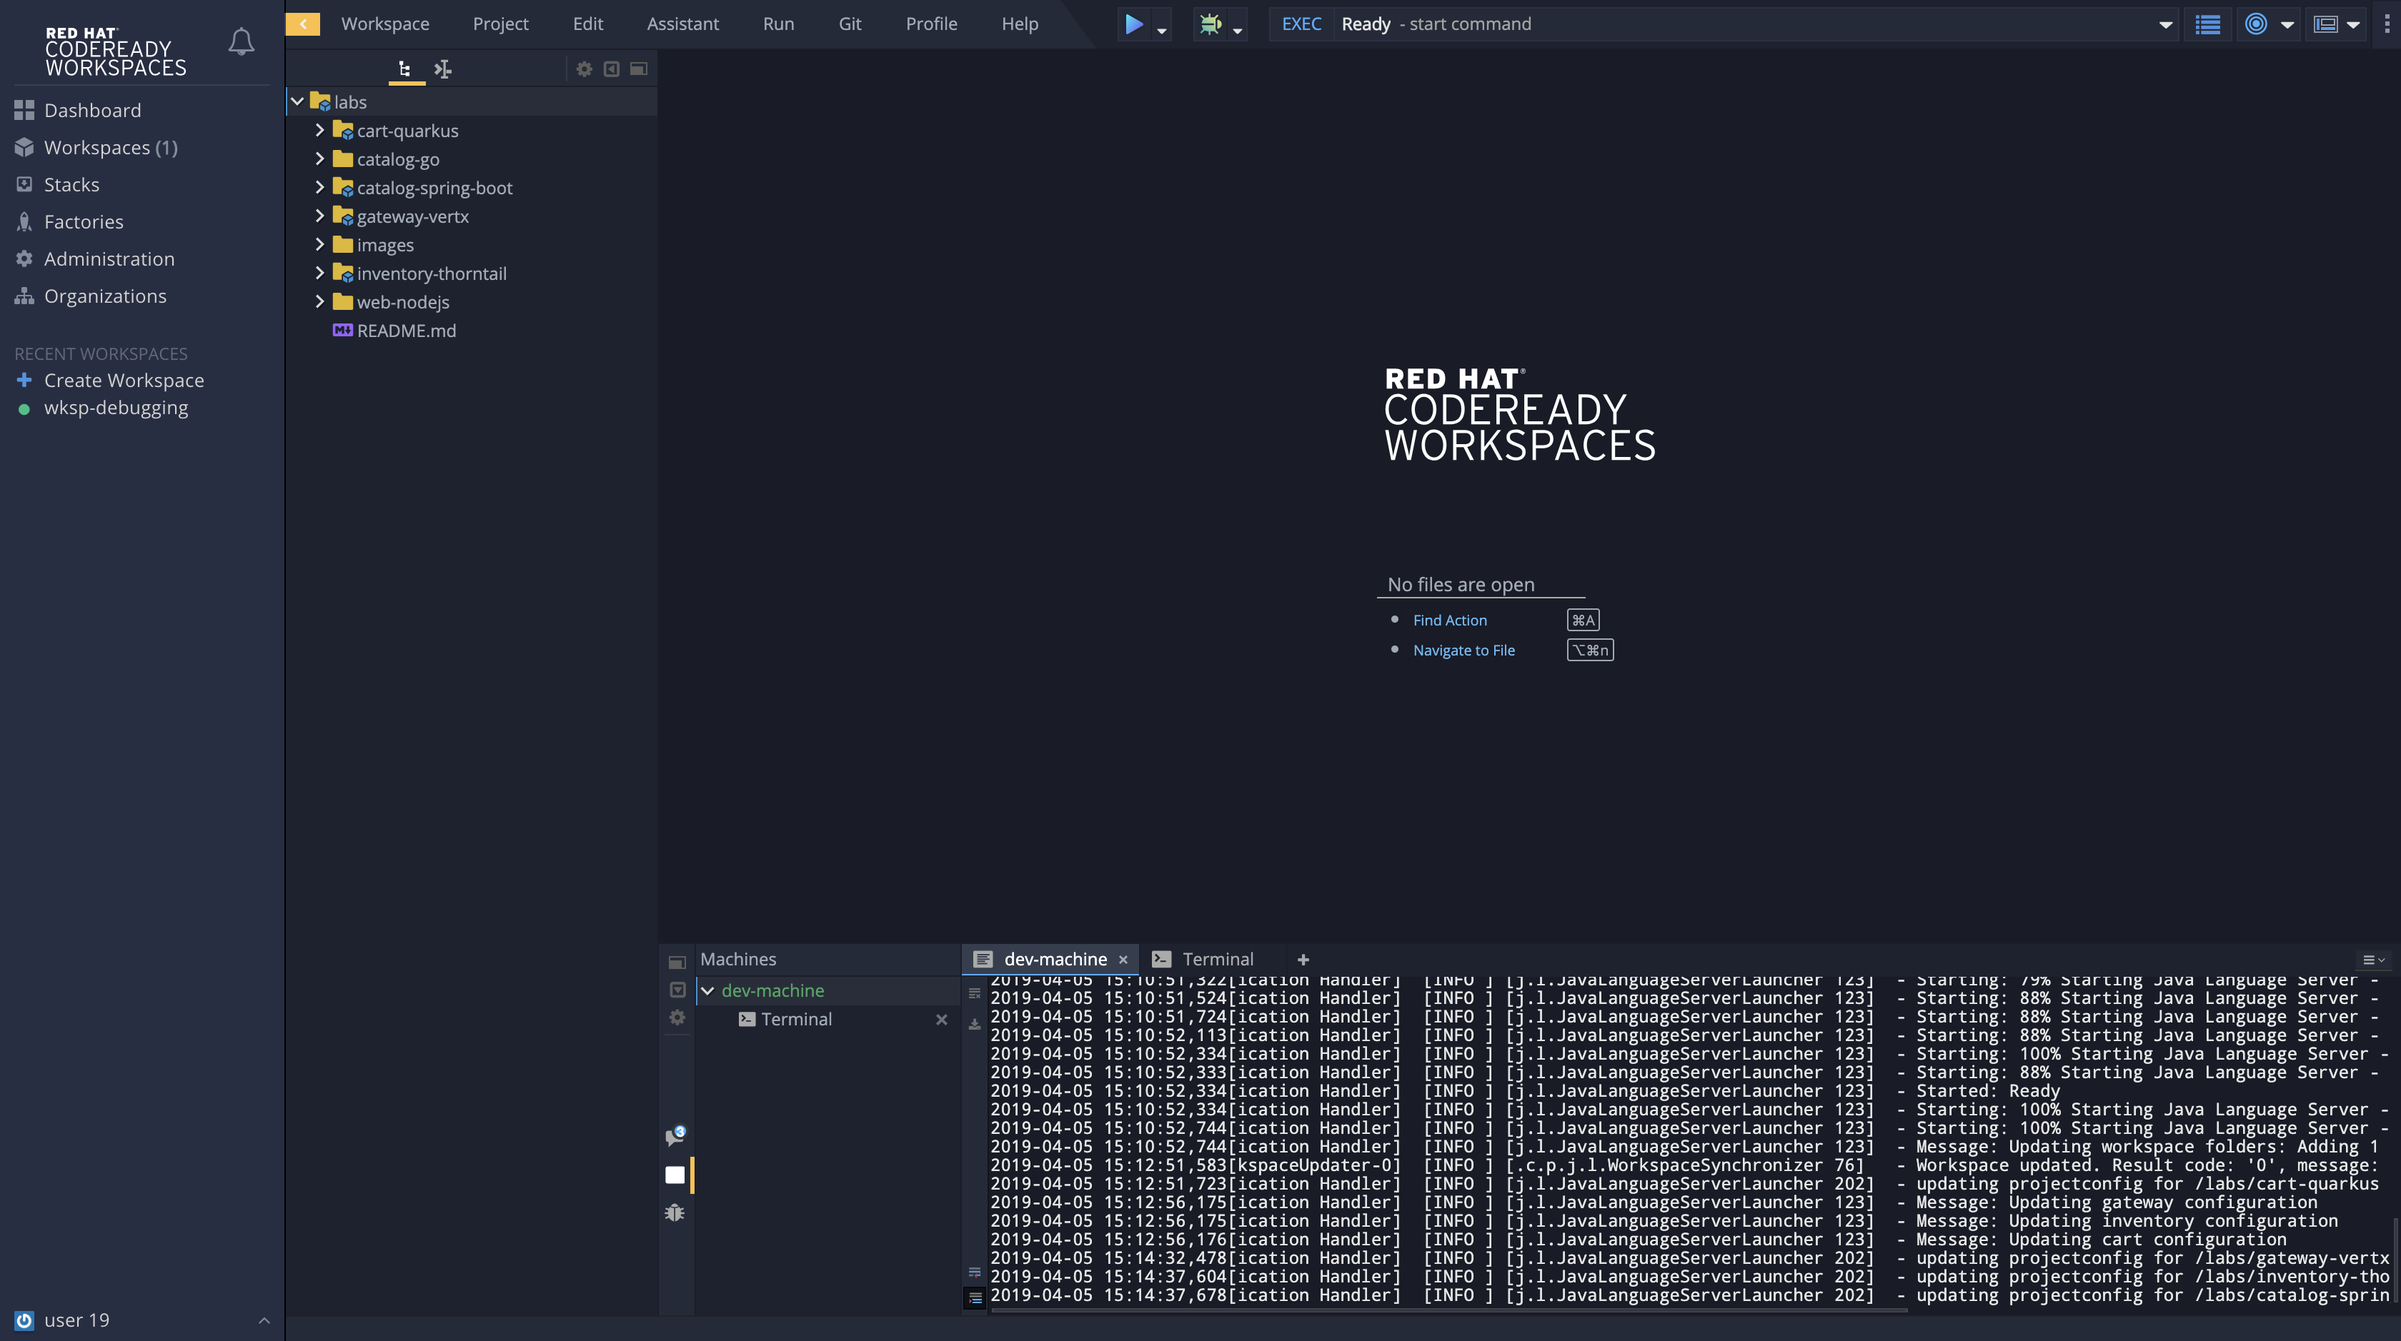
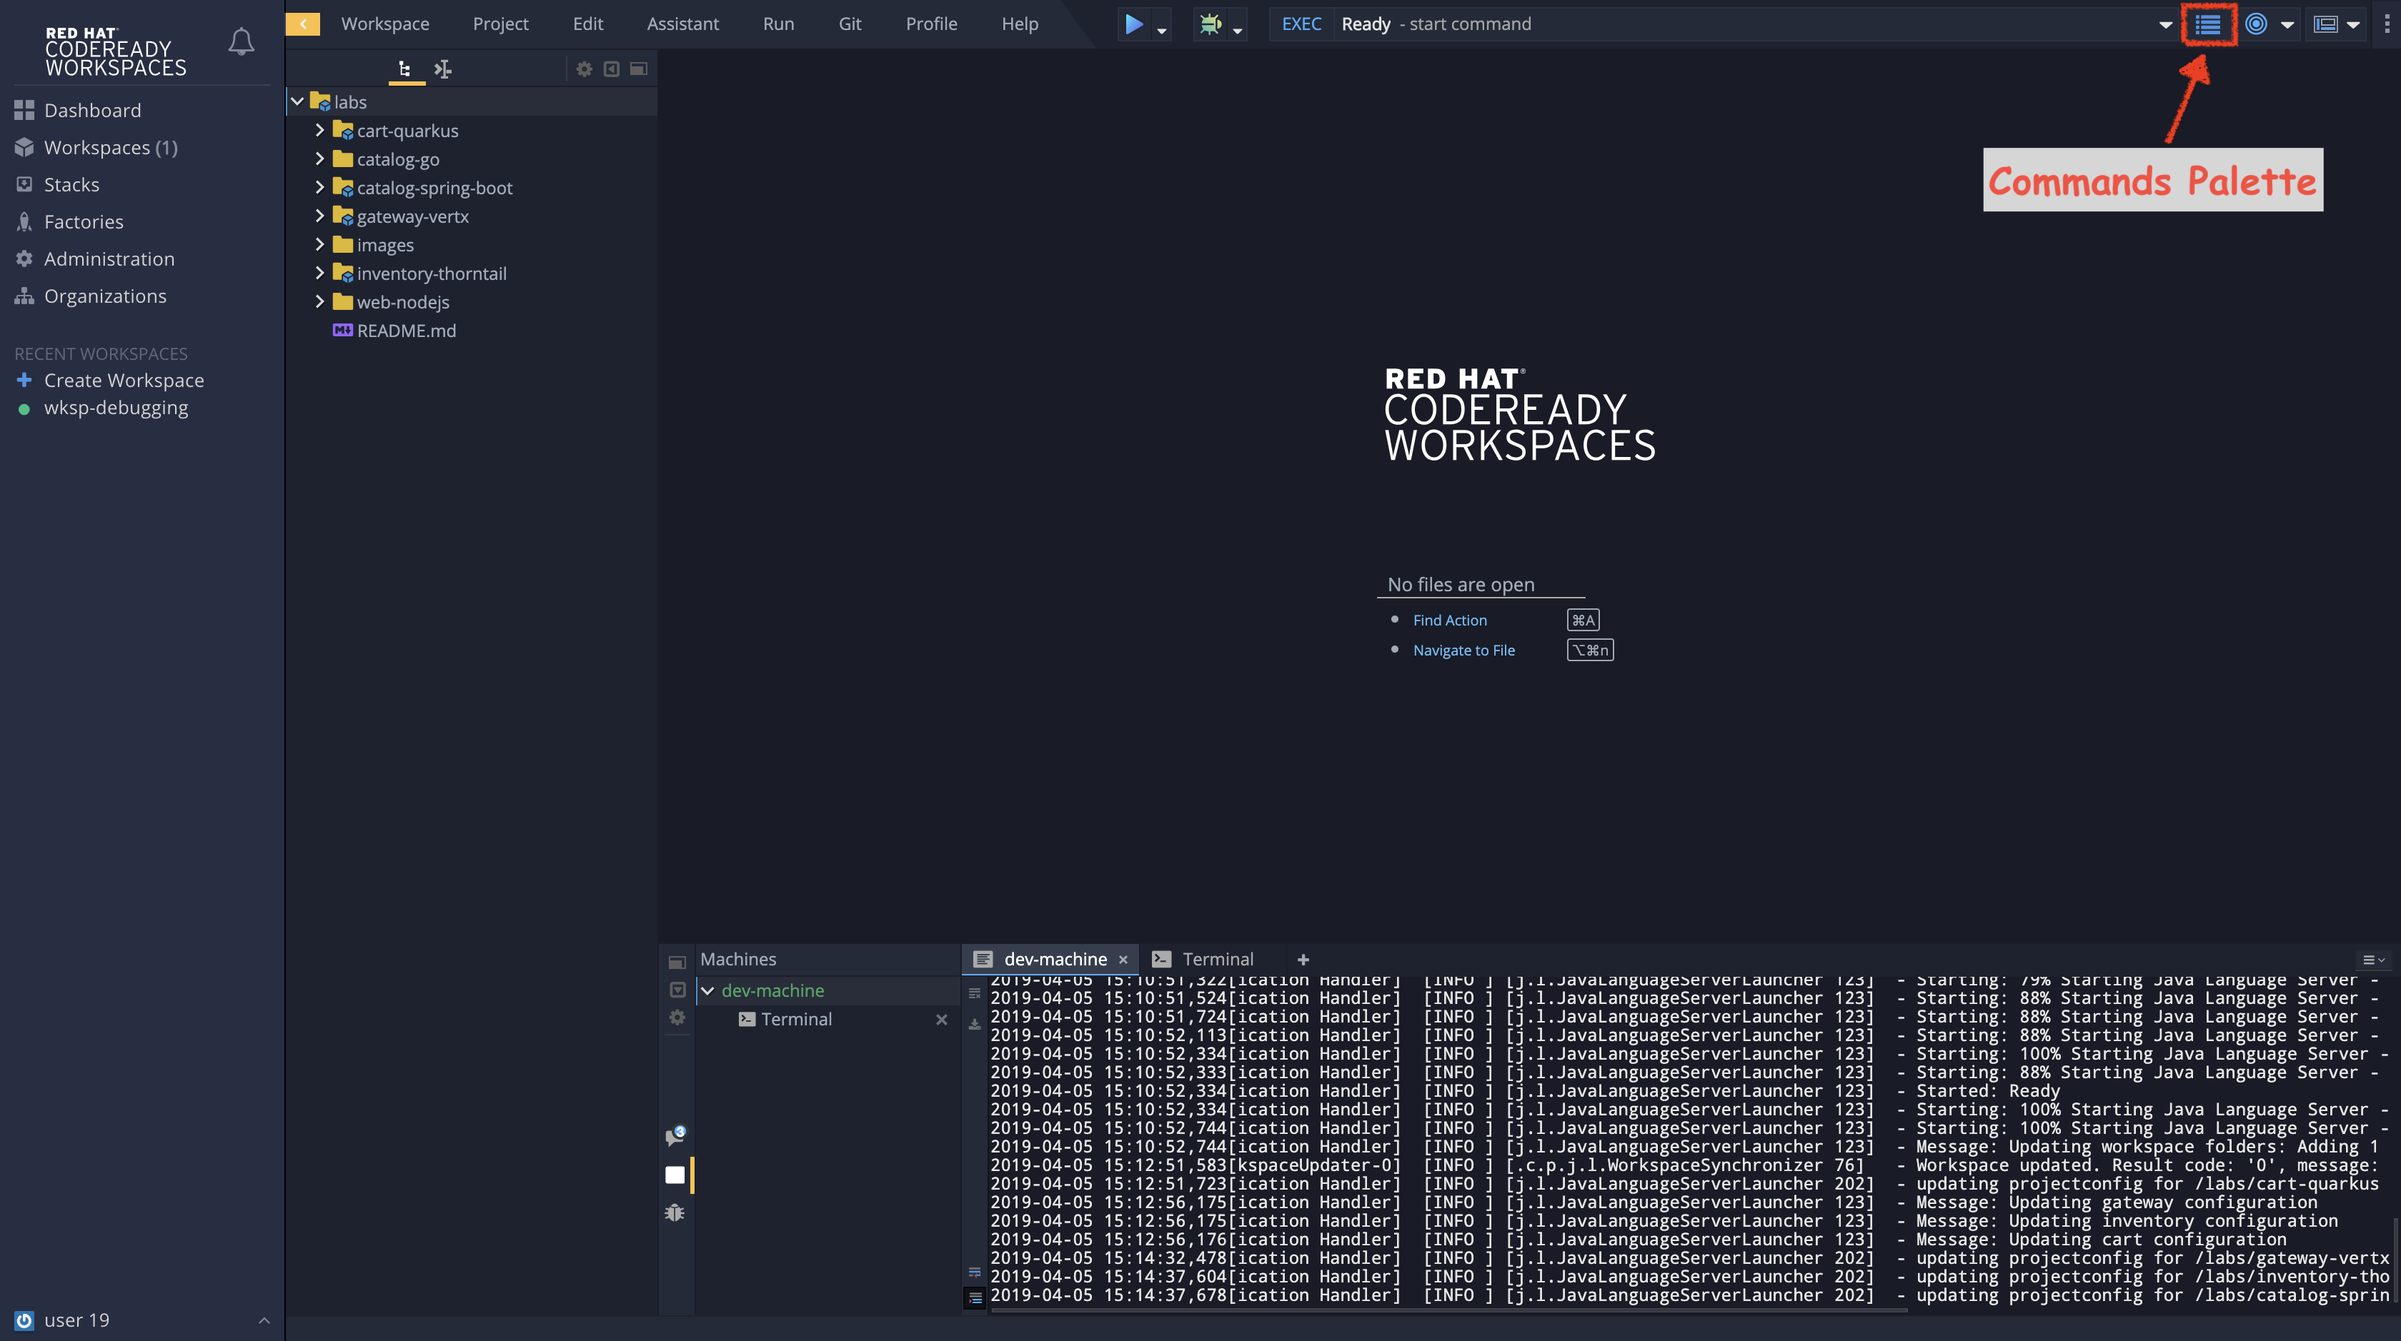
Updated instructions and created coolstore template

Changed region(s): [[0.8125, 0.0927, 0.9688, 0.1853], [0.9062, 0.0, 0.9375, 0.0618]]

diff --git a/instructions/kiali.md b/instructions/kiali.md
@@ -1,6 +1,8 @@
 ## "Bird Box"... Not Today!!
 
-The *Mysterious* application in your *Developer Workspaces* is now up and running. You can see that it is composed of several components but so far, you have no clue about the application is working.
+*20 MINUTES PRACTICE*
+
+The ***Mysterious Application*** in your *Developer Workspaces* is now up and running. You can see that it is composed of several components, but so far, you have no clue about how the application is working.
 Going all over this application and debugging it completely blindfolded is time consuming and a crazy bid as Malorie does in *Bird Box*.
 
 ![BirdBox]({% image_path birdbox.png %}){:width="300px"}
@@ -22,24 +24,24 @@ A service mesh can now provide these services on a platform level and frees the 
 Kiali provides an interactive graph view of your namespace in real time, being able to display the interactions at several levels (applications, versions, workloads), with contextual information and charts on the selected graph node or edge.
 
 First, you need to access to Kiali. 
-Launch a browser and navigate to [Kiali Console]({{ KIALI_URL }}) ({{ KIALI_URL }}). 
+Launch a browser and navigate to [Kiali Console]({{ KIALI_URL }}) *(please make sure to replace **infrax** from the url with your dedicated project)*. 
 You should see the Kiali console login screen.
 
 ![Kiali - Log In]({% image_path kiali-login.png %}){:width="500px"}
 
 Log in to the Kiali console as `{{OPENSHIFT_USER}}`/`{{OPENSHIFT_PASWORD}}`
 
-After you log in, click on the `Graph` link in the left navigation and enter the following configuration:
+After you log in, **click on the Graph link** in the left navigation and enter the following configuration:
 
- * Namespace: `{{COOLSTORE_PROJECT}}`
- * Display: check `Traffic Animation`
- * Fetching: `Last min`
+ * Namespace: **{{COOLSTORE_PROJECT}}**
+ * Display: **check 'Traffic Animation**
+ * Fetching: **Last min**
 
 ![Kiali - Graph]({% image_path kiali-graph.png %}){:width="700px"}
 
  This page shows a graph with all the microservices, connected by the requests going through them. On this page, you can see how the services interact with each other.
 
-Even if the application *seemed* working fine, you can see from [Kiali Console]({{ KIALI_URL }}) ({{ KIALI_URL }}), there is a problem in the Gateway Service which sends a 4xx http error.
+Even if the application *seemed* working fine, there is a problem in the ***Gateway Service*** which sends a 4xx http error.
 
 ![Kiali - 4xx]({% image_path kiali-4xx.png %}){:width="300px"}
 
@@ -58,14 +60,14 @@ Let's fix it!!
 * Architectured for running in serverless and container environments like Knative and OpenShift. 
 * Designed around a **container first philosophy**, what this means in real terms is that Quarkus is optimised for low memory usage and fast startup times.
 
-We already compiled the Cart Service application to a native executable called `cart-1.0-SNAPSHOT-runner`. You can find in the `cart-quarkus` project under the `src/target`folder. It improves the startup time of the `Cart Service`, and produces a minimal disk footprint. The executable would have everything to run the application including the "JVM" and the application.
+We already compiled the Cart Service application to a native executable called **cart-1.0-SNAPSHOT-runner**. You can find in the **cart-quarkus** project under the **src/target** folder. It improves the startup time of the ***Cart Service***, and produces a minimal disk footprint. The executable would have everything to run the application including the "JVM" and the application.
 
 In this chapter, you will focus on creating a Docker image using the produced native executable.
 
 ![Quarkus - Container]({% image_path containerization-process.png %}){:width="700px"}
 
 > If you want, take a moment to examine the source code of the Cart Service implemented with [Quarkus](https://quarkus.io/).
-> You can find it under the package `com.redhat.cloudnative` in the `src/main/java` directory of the `cart-quarkus` project.
+> You can find it under the package ***com.redhat.cloudnative*** in the **src/main/java** directory of the **cart-quarkus** project.
 
 In the *Terminal* window, execute the following commands to leverage the build mechanism of OpenShift and deploy the service:
 
@@ -91,7 +93,7 @@ $ oc expose svc cart
 ![Openshift Console Cart]({% image_path console-cart.png %}){:width="500px"}
 
 **YOU HAVE TO SEE THAT!** 
-Have a look to the log of the `Cart Service` pod by cliking in the dark blue circle and then **just admire its amazing FAST BOOT TIME!**
+Have a look to the log of the ***Cart Service*** pod by cliking in the dark blue circle and then **just admire its amazing FAST BOOT TIME!**
 
 ~~~bash
 2019-04-01 20:13:35,623 INFO  [io.quarkus] (main) Quarkus 0.11.0 started in 0.009s. Listening on: http://0.0.0.0:8080 
@@ -101,16 +103,16 @@ Have a look to the log of the `Cart Service` pod by cliking in the dark blue cir
 
 **AND YES, IT'S A JAVA APPLICATION!**
 
-You can ensure the proper functioning of the `Cart Service` by accessing to {{CART_ROUTE_HOST}} and click on `Test it`.
+You can ensure the proper functioning of the ***Cart Service*** by accessing to {{CART_ROUTE_HOST}} and **click on 'Test it'**.
 
 ![Cart Service]({% image_path cart-service.png %}){:width="500px"}
 
 #### Update Gateway Service
 
-Previously, we deployed the `Cart Service`. Now, you have to take it in account in the `Gateway Service`.
-Edit the `src/main/java/com/redhat/cloudnative/gateway/GatewayVerticle.java` class as following:
+Previously, we deployed the ***Cart Service***. Now, you have to take it in account in the ***Gateway Service***.
+Edit the **src/main/java/com/redhat/cloudnative/gateway/GatewayVerticle.java** file as following:
 
-First, add the WebClient attribute `cart` in the class `GatewayVerticle`
+First, add the WebClient attribute ***cart*** in the class ***GatewayVerticle***
 
 ~~~java
     private WebClient catalog;
@@ -119,7 +121,7 @@ First, add the WebClient attribute `cart` in the class `GatewayVerticle`
     private WebClient cart; 
 ~~~
 
-Then, define the route `/api/cart/:cardId` in the `start()` method
+Then, define the route **/api/cart/:cardId** in the ***start()*** method
 
 ~~~java
         router.get("/health").handler(ctx -> ctx.response().end(new JsonObject().put("status", "UP").toString()));
@@ -128,7 +130,7 @@ Then, define the route `/api/cart/:cardId` in the `start()` method
         router.get("/api/cart/:cardId").handler(this::getCartHandler);
 ~~~
 
-Next, replace the `ServiceDiscovery.create()` call as following
+Next, replace the ***ServiceDiscovery.create()*** call as following
 
 ~~~java
         ServiceDiscovery.create(vertx, discovery -> {
@@ -167,7 +169,7 @@ Next, replace the `ServiceDiscovery.create()` call as following
         });
 ~~~
 
-Finally, add the `getCartHandler` method in the `GatewayVerticle` class.
+Finally, add the ***getCartHandler()*** method in the ***GatewayVerticle*** class.
 
 ~~~java
     private void getCartHandler(RoutingContext rc) {
@@ -190,7 +192,7 @@ Finally, add the `getCartHandler` method in the `GatewayVerticle` class.
     }
 ~~~
 
-Check that your source code compiles then use the OpenShift CLI command to start a new build and deployment for the update `Gateway Service`:
+Check that your source code compiles then use the OpenShift CLI command to start a new build and deployment for the update ***Gateway Service***:
 
 ~~~shell
 $ mvn clean package -f /projects/labs/gateway-vertx/
@@ -198,7 +200,7 @@ $ oc start-build gateway-s2i --from-dir /projects/labs/gateway-vertx/ --follow
 ~~~
 
 Once deployed, check your javascript console that the *404 error* has disappeared.
-In Kiali Graph, the Gateway Service is now green and you can see the new `Cart Service` is now present! 
+In Kiali Graph, the Gateway Service is now green and you can see the new ***Cart Service*** is now present! 
 
 ![Gateway Fixed]({% image_path gateway-cart-fixed.png %}){:width="700px"}
 

diff --git a/instructions/intro.md b/instructions/intro.md
@@ -2,26 +2,28 @@
 
 ## May 7th, 2019 - 3:45PM - somewhere in Boston, it begins...
 
-After a long and frustrated morning spending hours to try to solve an issue that a colleague, passing by chance with his/her cup of coffee, fixed in literally 5 seconds, you are finally ready to start your normal working day when ...
+*15 MINUTES PRACTICE*
 
-Suddently, your manager comes out of his/her office and walks to you with the very known face that saying *"You are in trouble!"*.
-Indeed, the new release of a *Mysterious* Application is planned for tonight (everything is always urgent) and it seems to contain some bugs.
+After a long and frustrated morning spending hours to solve an issue that a colleague, passing by chance with his/her cup of coffee, fixed in literally 5 seconds, you are finally ready to start your normal working day when ...
 
-And of course, the developer who has worked on this last release is now drinking some mojitos on the paradise island and you are the only one available who can save the situation. Your manager points the source code [*Mysterious* Application](https://github.com/mcouliba/cloud-native-labs/tree/debugging) out, gives you a gently tap on the shoulder and says "Bon Courage!".
+Your manager suddenly comes out of his/her office and walks to you with the very known face that saying *"You are in trouble!"*.
+Indeed, the new release of a ***Mysterious Application*** is planned for tonight (everything is always urgent) and it seems to contain some bugs.
 
-At that moment in time, you feel like you are in an island but not the same one than your colleague.
+And of course, the developer who worked on this last release is now drinking some mojitos on the paradise island and you are the only one available who can save the situation. Your manager points the source code [*Mysterious Application*](https://github.com/mcouliba/cloud-native-labs/tree/debugging) out, gives you a gentle tap on the shoulder and says "Bon Courage!".
+
+At that moment in time, you feel like you are on an island, but not the same one than your colleague.
 
 ![Cast Away]({% image_path castaway.jpg %}){:width="300px"}
 
 Now you have to:
 
-* Identify the right tools to build and run the *Mysterious* Application
+* Identify the right tools to build and run the ***Mysterious Application***
 * Install them on your environment
 * Build your application which could be composed by several heterogeneous languages
 * Test, deploy, run it
 * ...
 
-Piouf!! A lot of things to do in a short period of time...
+Piouf!! Lots of things to do in a short period of time...
 
 *"No Worry Be Happy"*, Red Hat OpenShift Container Platform, Inc is here to help!!
 
@@ -40,19 +42,19 @@ Built on the open Eclipse Che project, [Red Hat CodeReady Workspaces](https://de
 ## Getting your Developer Workspace with a single click
 
 [Red Hat CodeReady Workspaces](https://developers.redhat.com/products/codeready-workspaces/overview/) will provide you an out-of-box *Developer Workspace* with all the tools and the dependencies we need to do the job.
-And in only one single click!
+**And with only one single click!**
 
-First, go to [*Mysterious* Application](https://github.com/mcouliba/cloud-native-labs/tree/debugging). The `README.md` file contains a link called *"Developer Workspace"*. 
+First, go to [*Mysterious Application*](https://github.com/mcouliba/cloud-native-labs/tree/debugging). The **README.md** file contains a link called ***"Developer Workspace"***. 
 
 ![Developer Workspace - Link]({% image_path developer-workspace-link.png %}){:width="800px"}
 
-Click on it, login as `{{OPENSHIFT_USER}}/{{OPENSHIFT_PASWORD}}` and let's the magic happens...
+**Click on it**, login as `{{OPENSHIFT_USER}}/{{OPENSHIFT_PASWORD}}` and let's the magic happens...
 
 ![Developer Workspace - Build]({% image_path developer-workspace-build.png %}){:width="600px"}
 
-> Red Hat CodeReady Workspaces uses a [Factory](https://developers.redhat.com/crw-fmi#share_workspaces_with_factories) to automate the provisioning of a specific workspace by using the `.factory.json` file in the GitHub repository.
+> Red Hat CodeReady Workspaces uses a [Factory](https://developers.redhat.com/crw-fmi#share_workspaces_with_factories) to automate the provisioning of a specific workspace by using the **.factory.json** file in the GitHub repository.
 >
-> Providing a .factory.json file inside the repository signals to CodeReady Workspaces URL factory to configure the project and runtime according to this configuration file.
+> Providing a **.factory.json** file inside the repository signals to CodeReady Workspaces URL factory to configure the project and runtime according to this configuration file.
 
 Once completed, you will have a fully functional CodeReady Workspaces IDE running in your browser within the source code already imported.
 
@@ -61,7 +63,7 @@ Once completed, you will have a fully functional CodeReady Workspaces IDE runnin
 ## Login to OpenShift
 
 First, you need to access to the OpenShift cluster from [CodeReady Workspaces url]({{CODEREADY_WORKSPACES_URL}}).
-In CodeReady Workspaces, click on `Commands Palette` and click on `OPENSHIFT > oc login`
+In CodeReady Workspaces, use the ***Commands Palette*** and **click on OPENSHIFT > oc login**
 
 ![oc login]({% image_path codeready-command-oc-login.png %}){:width="300px"}
 
@@ -89,7 +91,7 @@ Successful Connected to OpenShift as {{OPENSHIFT_USER}}
 ## Build and Deploy the Mysterious Application
 
 Once logged, you can build and deploy the application to debug  on OpenShift.
-In CodeReady Workspaces, click on `Commands Palette` and click on `BUILD > Build Mysterious Application`
+In CodeReady Workspaces, use the ***Commands Palette***  and **click on BUILD > Build Mysterious Application**
 
 ![oc login]({% image_path codeready-command-build-app.png%}){:width="300px"}
 
@@ -107,7 +109,7 @@ The first screen you will see is the authentication screen. Enter your username 
 then log in. After you have authenticated to the web console, you will be presented with a
 list of projects that your user has permission to work with. 
 
-Click on the `{{COOLSTORE_PROJECT}}` project to be taken to the project overview page
+**Click on the {{COOLSTORE_PROJECT}} project** to be taken to the project overview page
 which will list all of the routes, services, deployments, and pods that you have
 running as part of your project.
 

diff --git a/instructions/squash.md b/instructions/squash.md
@@ -1,4 +1,7 @@
 ## "Mr Robot"  Please help me
+
+*20 MINUTES PRACTICE*
+
 After checking logs and traces we need the ability to do live debugging of my application, it's an essential piece in the development process. It's time to enter to the system running. How to penetrate to the secured kubernetes system, I need the POWER of Elliot Alderson. 
 
 ![MrRobot]({% image_path mrrobot.png %}){:width="500px"}

diff --git a/instructions/jaeger.md b/instructions/jaeger.md
@@ -1,5 +1,7 @@
 ## "Dream Within a Dream"
 
+*15 MINUTES PRACTICE*
+
 As Cobb and Arthur in *Inception*, let's perform a *"Trace Within a Trace" Strategy* called **Distributed Tracing** using Red Hat Openshift Container Platform to infiltrate the application traces and extract valuable information to solve the issues
 
 ![Inception]({% image_path inception.jpg %}){:width="300px"}
